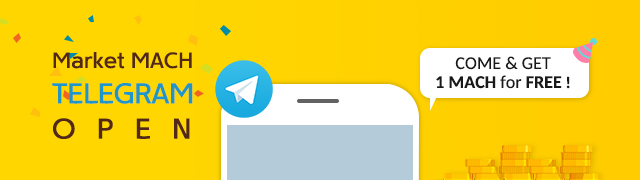
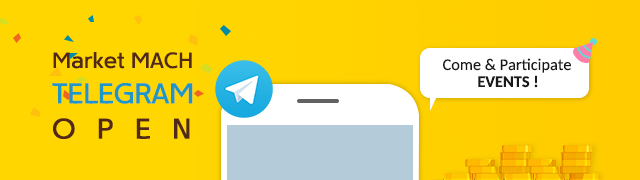
[영문]슈퍼랜딩 게임 오픈에 맞게 반영, 그외 자잘한 수정사항 반영

Changed region(s): [[0.6875, 0.4167, 0.9062, 0.5], [0.6875, 0.3056, 0.9062, 0.3889]]

diff --git a/views/v2_en/main/index.html b/views/v2_en/main/index.html
@@ -279,7 +279,7 @@
                     var point = numberWithCommas(data[i].total_point);
                     var image_src;
                     if(data[i].images[0] === undefined || data[i].images[0] === "") {
-                        image_src = "/image/no-image.png";
+                        image_src = "/static/img/sub/no_image.png";
                     } else {
                         image_src = data[i].images[0].path;
                     }
@@ -357,23 +357,25 @@
                         </a>
                     </div>             
                     <div class="visual_img">
-                        <a href="/gameStation">
+                        <a href="https://play.google.com/store/apps/details?id=com.pang.spld.google&hl=en" target="_blank">
                             <div class="pc_img">
-                                <img src="/static/img/main/main_visual16.jpg" alt="2nd Game">
+                                <img src="/static/img/en/en_main_visual03.jpg" alt="2nd Game">
                             </div>
                             <div class="mob_img">
-                                <img src="/static/img/mob/m_main_visual16.jpg" alt="2nd Game">
+                                <img src="/static/img/en/en_mob_main_visual03.jpg" alt="2nd Game">
                             </div>
-                        </a> 
+                        </a>
                     </div>
                     <div class="visual_img">
-                        <div class="pc_img">
-                            <img src="/static/img/en/en_main_visual02.jpg" alt="1st Game">
+                        <a href="/gameStation">
+                            <div class="pc_img">
+                                <img src="/static/img/en/en_main_visual02.jpg" alt="1st Game">
+                            </div>
+                            <div class="mob_img">
+                                <img src="/static/img/en/en_mob_main_visual02.jpg" alt="1st Game">
+                            </div>
                         </div>
-                        <div class="mob_img">
-                            <img src="/static/img/en/en_mob_main_visual02.jpg" alt="1st Game">
-                        </div>
-                    </div>
+                        </a> 
                     <div class="visual_img">
                         <a href="/howto/trade/vtr">
                             <div class="pc_img">
@@ -429,10 +431,10 @@
         <div class="container">
             <div class="w100p_banner row">
                 <div class="col-lg-12">
-                    <a class="mob_hide" href="https://open.kakao.com/o/gNPGb7sb" target="_blank">
+                    <a class="mob_hide" href="https://t.me/marketmachcom" target="_blank">
                         <img src="/static/img/en/en_main_content_banner04.jpg" alt="마켓마하 오픈채팅 PC">
                     </a>
-                    <a class="mob_show" href="https://open.kakao.com/o/gNPGb7sb" target="_blank">
+                    <a class="mob_show" href="https://t.me/marketmachcom" target="_blank">
                         <img src="/static/img/en/en_mob_main_banner04.jpg" alt="마켓마하 오픈채팅 mobile">
                     </a>
                 </div>
@@ -450,7 +452,7 @@
                 <section class="secGame item_trade_sec col-lg-8">
                     <h1 class="tit_main_sec main_tit_gameitem">Game Item</h1>
                     <h2 class="item_sell_tit on">
-                        <button class="btnGame btn_show_list on">Purchase</button>
+                        <button class="btnGame btn_show_list on">Sales</button>
                         <a class="detail_link" href="/sells?category=game&trade_type=sell"><img src="/static/img/main/ico_view.png" alt=""></a>
                     </h2>
                     <div class="item_sell item_table_wrap trade_list toggleTable">              
@@ -474,7 +476,7 @@
                         </table>
                     </div>
                     <h2 class="item_buy_tit">
-                        <button class="btnGame btn_show_list">Sales</button>
+                        <button class="btnGame btn_show_list">Purchase</button>
                         <a class="detail_link" href="/buys?category=game&trade_type=buy"><img src="/static/img/main/ico_view.png" alt=""></a>
                     </h2>
                     <div class="item_buy item_table_wrap trade_list toggleTable">
@@ -510,7 +512,7 @@
                 <section class="secOtc item_trade_sec col-lg-8">
                     <h1 class="tit_main_sec main_tit_otc">OTC</h1>
                     <h2 class="item_sell_tit on">
-                        <button class="btnOtc btn_show_list on">Purchase</button>
+                        <button class="btnOtc btn_show_list on">Sales</button>
                         <a class="detail_link" href="/otc-sells?category=otc&trade_type=sell"><img src="/static/img/main/ico_view.png" alt=""></a>                        
                     </h2>
                     <div class="otc_sell otc_table_wrap trade_list toggleTable">              
@@ -530,7 +532,7 @@
                         </table>
                     </div>
                     <h2 class="item_buy_tit">
-                        <button class="btnOtc btn_show_list">Sales</button>
+                        <button class="btnOtc btn_show_list">Purchase</button>
                         <a class="detail_link" href="/otc-buys?category=otc&trade_type=buy"><img src="/static/img/main/ico_view.png" alt=""></a>      
                     </h2>
                     <div class="otc_buy otc_table_wrap trade_list toggleTable">
@@ -570,11 +572,11 @@
   
             <div class="w100p_banner row">
                 <div class="col-lg-12">
-                    <a class="mob_hide" href="https://open.kakao.com/o/gNPGb7sb" target="_blank">
-                        <img src="/static/img/en/en_main_content_banner04.jpg" alt="마켓마하 오픈채팅 PC">
+                    <a class="mob_hide" href="http://bitweb.co.kr" target="_blank">
+                        <img src="/static/img/en/en_main_content_banner03.jpg" alt="bitweb PC">
                     </a>
-                    <a class="mob_show" href="https://open.kakao.com/o/gNPGb7sb" target="_blank">
-                        <img src="/static/img/en/en_mob_main_banner04.jpg" alt="마켓마하 오픈채팅 mobile">
+                    <a class="mob_show" href="http://bitweb.co.kr" target="_blank">
+                        <img src="/static/img/en/en_mob_main_banner03.jpg" alt="bitweb mobile">
                     </a>
                 </div>
             </div>
@@ -590,7 +592,7 @@
                 </section>
                 <!--// 동영상 -->
             </div>
-            <div class="row">
+            <!-- <div class="row">
                 <section class="company_sec col-lg-12">
                     <h1 class="tit_main_sec main_tit_company">Media</h1>
                     <div class="bd_area">
@@ -610,7 +612,7 @@
                         </div>
                     </div>
                 </section>                   
-            </div>
+            </div> -->
         </div>
         <!--// bootstrap container -->
     </div>

diff --git a/views/v2_en/agreements/use.html b/views/v2_en/agreements/use.html
@@ -27,33 +27,26 @@
                 <div class="legal_txt_wrap">
                     <textarea class="textarea_legal" rows="30" readonly="readonly">
         Chapter 1: General Provisions
-        Article 1 [Purpose)
-
-        These Terms and Conditions relate to the brokerage services and other information services (hereinafter referred to as "Services") provided by Market Mach (hereinafter referred to as "the Company") through the Macha Exchange (http://www.mymach.asia) To define the rights and obligations of the Company and its members, responsibilities, and procedures for the Member's use of the Service.
+        Article 1 (Purpose)
+        These Terms and Conditions relate to the brokerage services and other information services (hereinafter referred to as "Services") provided by MarketMACH (hereinafter referred to as "the Company") through the MarketMACH (http://www.marketmach.com) To define the rights and obligations of the Company and its members, responsibilities, and procedures for the Member's use of the Service.
 
         Article 2 (Specification of Terms, Effect and Change)
-
-        ① The Company shall post the Terms and Conditions on the Macha Exchange (http://www.mymach.asia) screen where services are provided so that those who want to use the service and members can know about them.
-
+        ① The Company shall post the Terms and Conditions on the MarketMACH (http://www.marketmach.com) screen where services are provided so that those who want to use the service and members can know about them.
         ② If the Company revises these Terms of Use, the date of application and reasons for revision of the revised Terms shall be specified and notified by the method 1 above from 7 days before the effective date to the day before the effective date. However, if you change the terms and conditions of your use against the user at least 30 days before the grace period will be announced. In this case, the Company clearly compares the contents before the revision with the contents after the revision and displays them in a clearer manner for the user.
-
         ③ These Terms and Conditions are the basic agreement of the Service Usage Agreement established between the Company and the Member. The Company may, if necessary, determine the applicable matters (hereinafter referred to as "Operational Policies") for specific services and notify them in advance. In the event that a member agrees with these operating policies and uses certain services, the operating policies shall apply first and these terms shall have a supplementary effect. As for the change of the operating policy, the above 2 Paragraph shall apply mutatis mutandis.
 
         Article 3 (Relationship with Related Laws and Regulations)
-
         ① Items that are not specified in this Agreement or in the Operational Policy are as follows: 'Telecommunications Business Act', 'Electronic Commerce Basic Act', 'Act on Information Network Promotion and Information Protection Act', 'Act on Consumer Protection in Electronic Commerce etc.' Law, "" commercial law "and other relevant laws and regulations.
-
         ② Members shall use the services provided by the Company in order to use the services provided by the Company under the Act on Consumer Protection in Electronic Commerce etc., the Electronic Commerce Basic Act, the Consumer Protection Act, the Act on the Fairness of Advertisements and Advertisements, Promotion and Protection of Information, etc. ", and can not assert any indemnity for violation of relevant laws and regulations as stipulated in these Terms and Conditions.
 
         Article 4 (Types of Services)
-
         The services that the company provides to its members are as follows.
 
         1. Brokerage services
-        Refers to all services and related supplementary services that provide online cyber trading sites where a company can trade goods through mutual exchange through the MACHA Exchange (http://www.mymach.asia).
+        Refers to all services and related supplementary services that provide online cyber trading sites where a company can trade goods through mutual exchange through the MarketMACH (http://www.marketmach.com).
 
         2. Other information services
-        In addition to intermediary services, Internet refers to Internet services such as information services provided by members to members through the Macha Exchange (http://www.mymach.asia).
+        In addition to intermediary services, Internet refers to Internet services such as information services provided by members to members through the MarketMACH (http://www.marketmach.com).
 
         Article 5 (Definition of Terms)
         Terms used in these terms are defined as follows.

diff --git a/views/v2_en/gamestation/gamestation.html b/views/v2_en/gamestation/gamestation.html
@@ -52,25 +52,25 @@
                             </div>
                             <div class="gameStation_store">
                                 <a href="https://itunes.apple.com/kr/app/mach-adventure/id1465065764?mt=8" target="_blank">
-                                    <img src="https://s3.ap-northeast-2.amazonaws.com/op-mach-bucket/notice/iphone.jpeg" alt="" class="store_image">
+                                    <img src="https://s3.ap-northeast-2.amazonaws.com/op-mach-bucket/notice/iphone.jpeg" alt="app store" class="store_image">
                                 </a>
                                 <a href="https://play.google.com/store/apps/details?id=com.kcs.machadventure" target="_blank">
-                                    <img src="https://s3.ap-northeast-2.amazonaws.com/op-mach-bucket/items/google_link.jpeg" alt="" class="store_image">
+                                    <img src="https://s3.ap-northeast-2.amazonaws.com/op-mach-bucket/items/google_link.jpeg" alt="play store" class="store_image">
                                 </a>
                             </div>
                         </article>
                         <article class="gameStation_article coming_soon">
-                            <h1 class="gameStation_title">2nd MACH Game</h1>
-                            <img src="/static/img/mob/m_main_visual16.jpg" alt="마하어드벤쳐 이미지">
+                            <h1 class="gameStation_title">Super Lading</h1>
+                            <img src="/static/img/en/en_mob_main_visual03.jpg" alt="super landing">
                             <div class="gameStation_contents">
-                                <em>Comming Soon!</em>
+                                <em>IOS download will be opened!</em>
                             </div>
                             <div class="gameStation_store">
-                                <a href="" target="_blank">
-                                    <img src="https://s3.ap-northeast-2.amazonaws.com/op-mach-bucket/notice/iphone.jpeg" alt="" class="store_image">
+                                <a href="javascript:" target="_blank" class="link_wait_a_minute">
+                                    <img src="https://s3.ap-northeast-2.amazonaws.com/op-mach-bucket/notice/iphone.jpeg" alt="app store" class="store_image">
                                 </a>
-                                <a href="" target="_blank">
-                                    <img src="https://s3.ap-northeast-2.amazonaws.com/op-mach-bucket/items/google_link.jpeg" alt="" class="store_image">
+                                <a href="https://play.google.com/store/apps/details?id=com.pang.spld.google&hl=en" target="_blank">
+                                    <img src="https://s3.ap-northeast-2.amazonaws.com/op-mach-bucket/items/google_link.jpeg" alt="play store" class="store_image">
                                 </a>
                             </div>
                         </article>

diff --git a/views/v2_en/support/private/modify.html b/views/v2_en/support/private/modify.html
@@ -50,17 +50,17 @@
                                         </td>
                                     </tr>
                                     <tr>
-                                        <th class="fc2">제목</th>
+                                        <th class="fc2">Title</th>
                                         <td><input type="text" id="title" class="form-control"></td>
                                     </tr>
                                     <tr>
-                                        <th class="fc2">문의내용</th>
+                                        <th class="fc2">Content</th>
                                         <td>
                                             <textarea name="" id="content" class="form-control" style="height: 200px"></textarea>
                                         </td>
                                     </tr>
                                     <tr class="trForDel">
-                                        <th class="fc2">첨부 이미지</th>
+                                        <th class="fc2">Image</th>
                                         <td>
                                             <div class="product_img_list">
                                                 <div class="imgs_wrap">
@@ -92,7 +92,7 @@
                                                 <input type="file" class="input_imgs" id="input_imgs4" index="4" accept="image/*"/>
                                             </div>
                                             <ul class="highligh_list fcrd">
-                                                <li>※ </li>
+                                                <!-- <li>※ </li> -->
                                             </ul>
                                             <div id="fullImg"></div>
                                         </td>

diff --git a/public/static/css/gameStation.css b/public/static/css/gameStation.css
@@ -72,11 +72,11 @@
 .gameStation_gamestation .gameStation_article .gameStation_store > a { display: inline-block; width: 170px; }
 .gameStation_gamestation .gameStation_article .gameStation_store > a:nth-of-type(odd) { margin-right: 25px; }
 .gameStation_gamestation .gameStation_article .gameStation_store a > .store_image { width: 100%; }
-
+.gameStation_gamestation .gameStation_article .gameStation_store .link_wait_a_minute{position: relative;}
+.gameStation_gamestation .gameStation_article .gameStation_store .link_wait_a_minute:after{position: absolute; top: 0; display: block; content: ''; clear: both; width: 100%; height: 42px; background: rgba(0, 0, 0, 0.7);}
 
 .gameStation_gamestation .coming_soon .gameStation_contents{height: 160px;}
-.gameStation_gamestation .coming_soon .gameStation_store{height: 76px; background: rgba(0, 0, 0, 0.7);}
-.gameStation_gamestation .coming_soon .gameStation_store > a{position: relative; z-index: -1;}
+.gameStation_gamestation .coming_soon .gameStation_store{height: 76px; /*background: rgba(0, 0, 0, 0.7);*/}
 
 .gameStation_gamestation .gameStation_article > .plus_icon { width: 100%; height: calc( 100% - 45px ); margin:0 auto; position: relative;}
 .gameStation_gamestation .gameStation_article .plus_icon > .material-icons { position: absolute; top: 50%; left: 50%; transform: translate(-50%, -50%); font-size: 30px; color: #aaa;}

diff --git a/views/v2_en/support/opposition/register.html b/views/v2_en/support/opposition/register.html
@@ -70,7 +70,7 @@
                                         </td>
                                     </tr>
                                     <tr class="trForDel">
-                                        <th class="fc2">첨부 이미지</th>
+                                        <th class="fc2">Image</th>
                                         <td>
                                             <div class="product_img_list">
                                                 <div class="imgs_wrap">
@@ -166,17 +166,17 @@
             var content = $('#content').val();
             
             if ($("#opposition_item_name option:selected").val() == "") {
-                alert('거래 검색을 선택하세요.');
+                alert('Please select a transaction.');
                 return;
             }
 
             if(title == "") {
-                alert('이의 제목을 입력하세요.');
+                alert('Please enter a title.');
                 return;
             }
 
             if(content == "") {
-                alert('이의 내용을 입력하세요.');
+                alert('Please enter a content.');
                 return;
             }
 

diff --git a/views/v2_en/otc-sell/list.html b/views/v2_en/otc-sell/list.html
@@ -113,7 +113,7 @@
                 var delivery_type = getDelivery(data[i].delivery_type == undefined ? "direct" : data[i].delivery_type);
                 var item_type = getItemType(data[i].type);
                 var trade_type = replaceType(data[i].trade_type);
-                //var image_url = data[i].images.length == 0 ? '/image/no-image.png' : data[i].images[0].path;
+                //var image_url = data[i].images.length == 0 ? '/static/img/sub/no_image.png' : data[i].images[0].path;
                 var userTag = data[i].userTag;
                 var tradingFlag = "";
                 var replyCount = data[i].replyCount;

diff --git a/views/v2_en/etc-sell/list.html b/views/v2_en/etc-sell/list.html
@@ -194,7 +194,7 @@
                 var delivery_type = getDelivery(data[i].delivery_type == undefined ? "direct" : data[i].delivery_type);
                 var item_type = getItemType(data[i].type);
                 var trade_type = replaceType(data[i].trade_type);
-                var image_url = data[i].images.length == 0 ? '/image/no-image.png' : data[i].images[0].path;
+                var image_url = data[i].images.length == 0 ? '/static/img/sub/no_image.png' : data[i].images[0].path;
                 var userTag = data[i].userTag;
                 var tradingFlag = "";
                 var replyCount = data[i].replyCount;

diff --git a/views/v2_en/buy/list.html b/views/v2_en/buy/list.html
@@ -242,7 +242,7 @@
             <section class="board_sec c_style_buy">
                 <div class="board_tit cf">
                     <h1>Buy Game Items<span><em id="titName">All Game</em> > <em id="titServer">All Server</em></span></h1>
-                    <button class="btn btn-success" id="register">Add Sales</button>
+                    <button class="btn btn-success" id="register">Register to Buy</button>
                 </div>
                 <div class="search_filter">
                     <ul class="">

diff --git a/views/v2_en/myPage/mybuylist.html b/views/v2_en/myPage/mybuylist.html
@@ -566,7 +566,7 @@
                         </div>
 
                         <div class="img_info_sec">
-                            <img src="/static/img/sub/safety_transaction_information.jpg" alt="">
+                            <!-- <img src="/static/img/sub/safety_transaction_information.jpg" alt=""> -->
                         </div>
                         
                         <!-- 모달창 -->

diff --git a/views/v2_en/myPage/myselllist.html b/views/v2_en/myPage/myselllist.html
@@ -569,7 +569,7 @@
                         </div>
                         
                         <div class="img_info_sec">
-                            <img src="/static/img/sub/safety_transaction_information.jpg" alt="">
+                            <!-- <img src="/static/img/sub/safety_transaction_information.jpg" alt=""> -->
                         </div>
 
                         <!-- 모달창 -->
